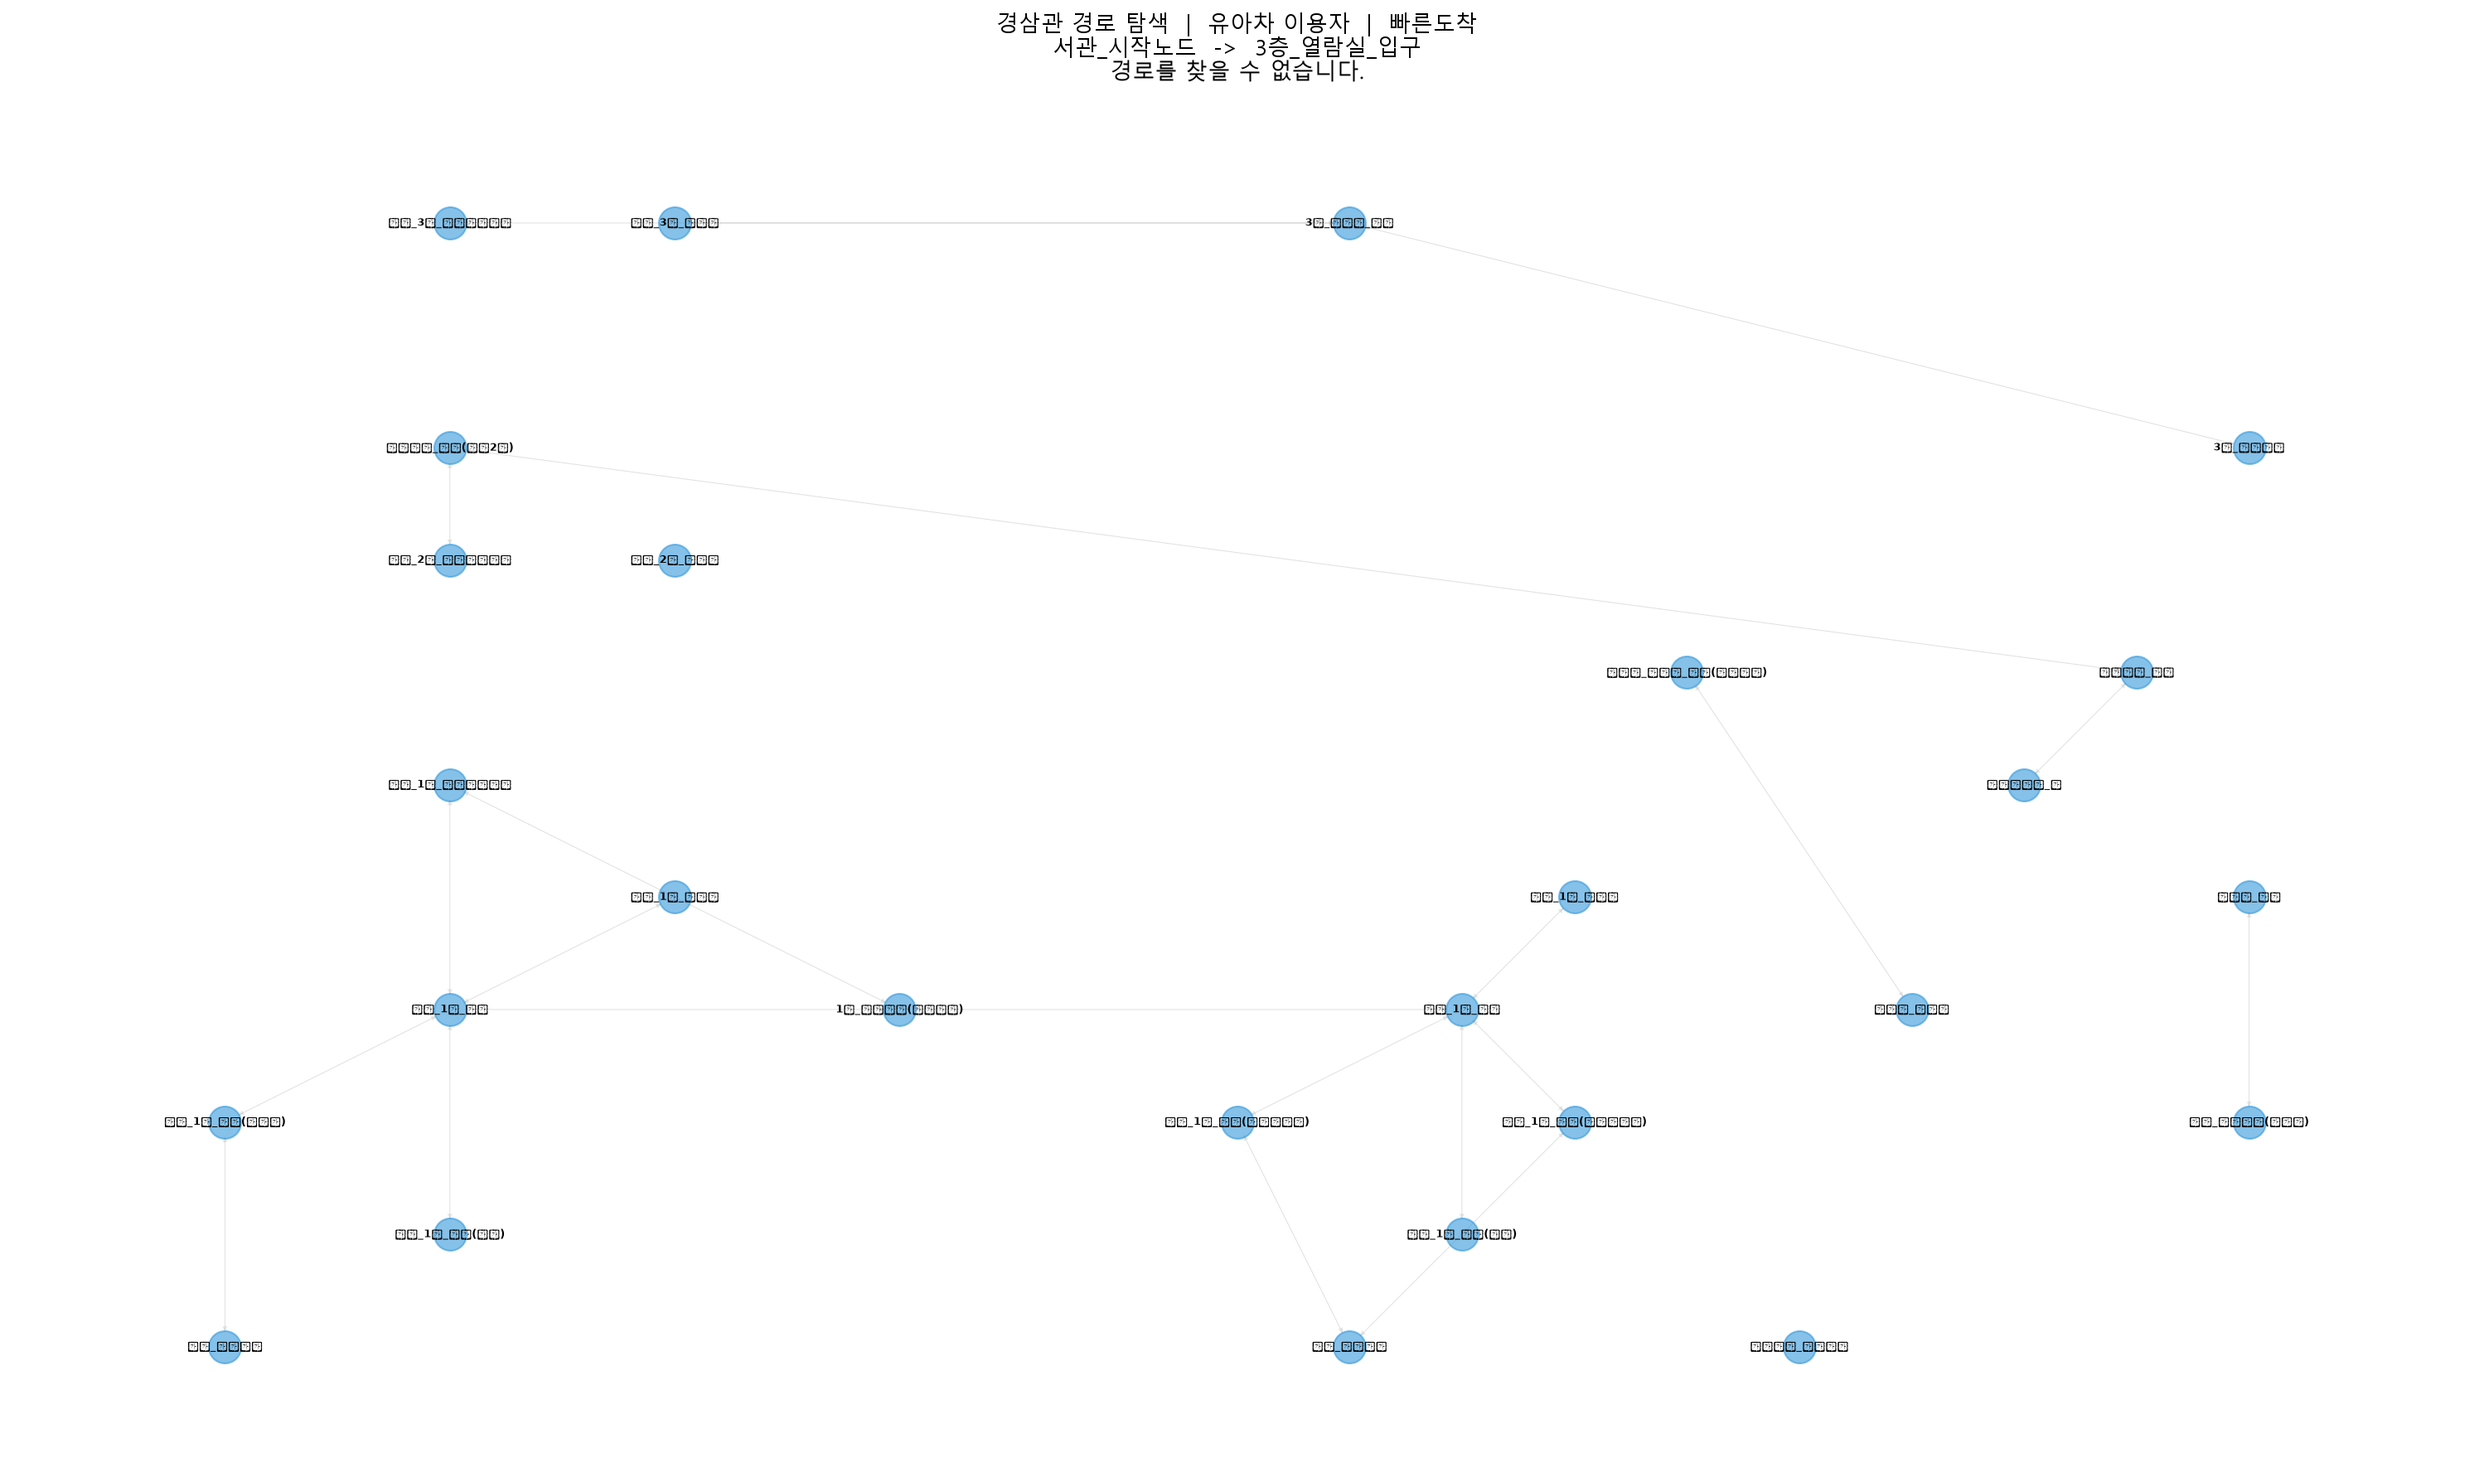
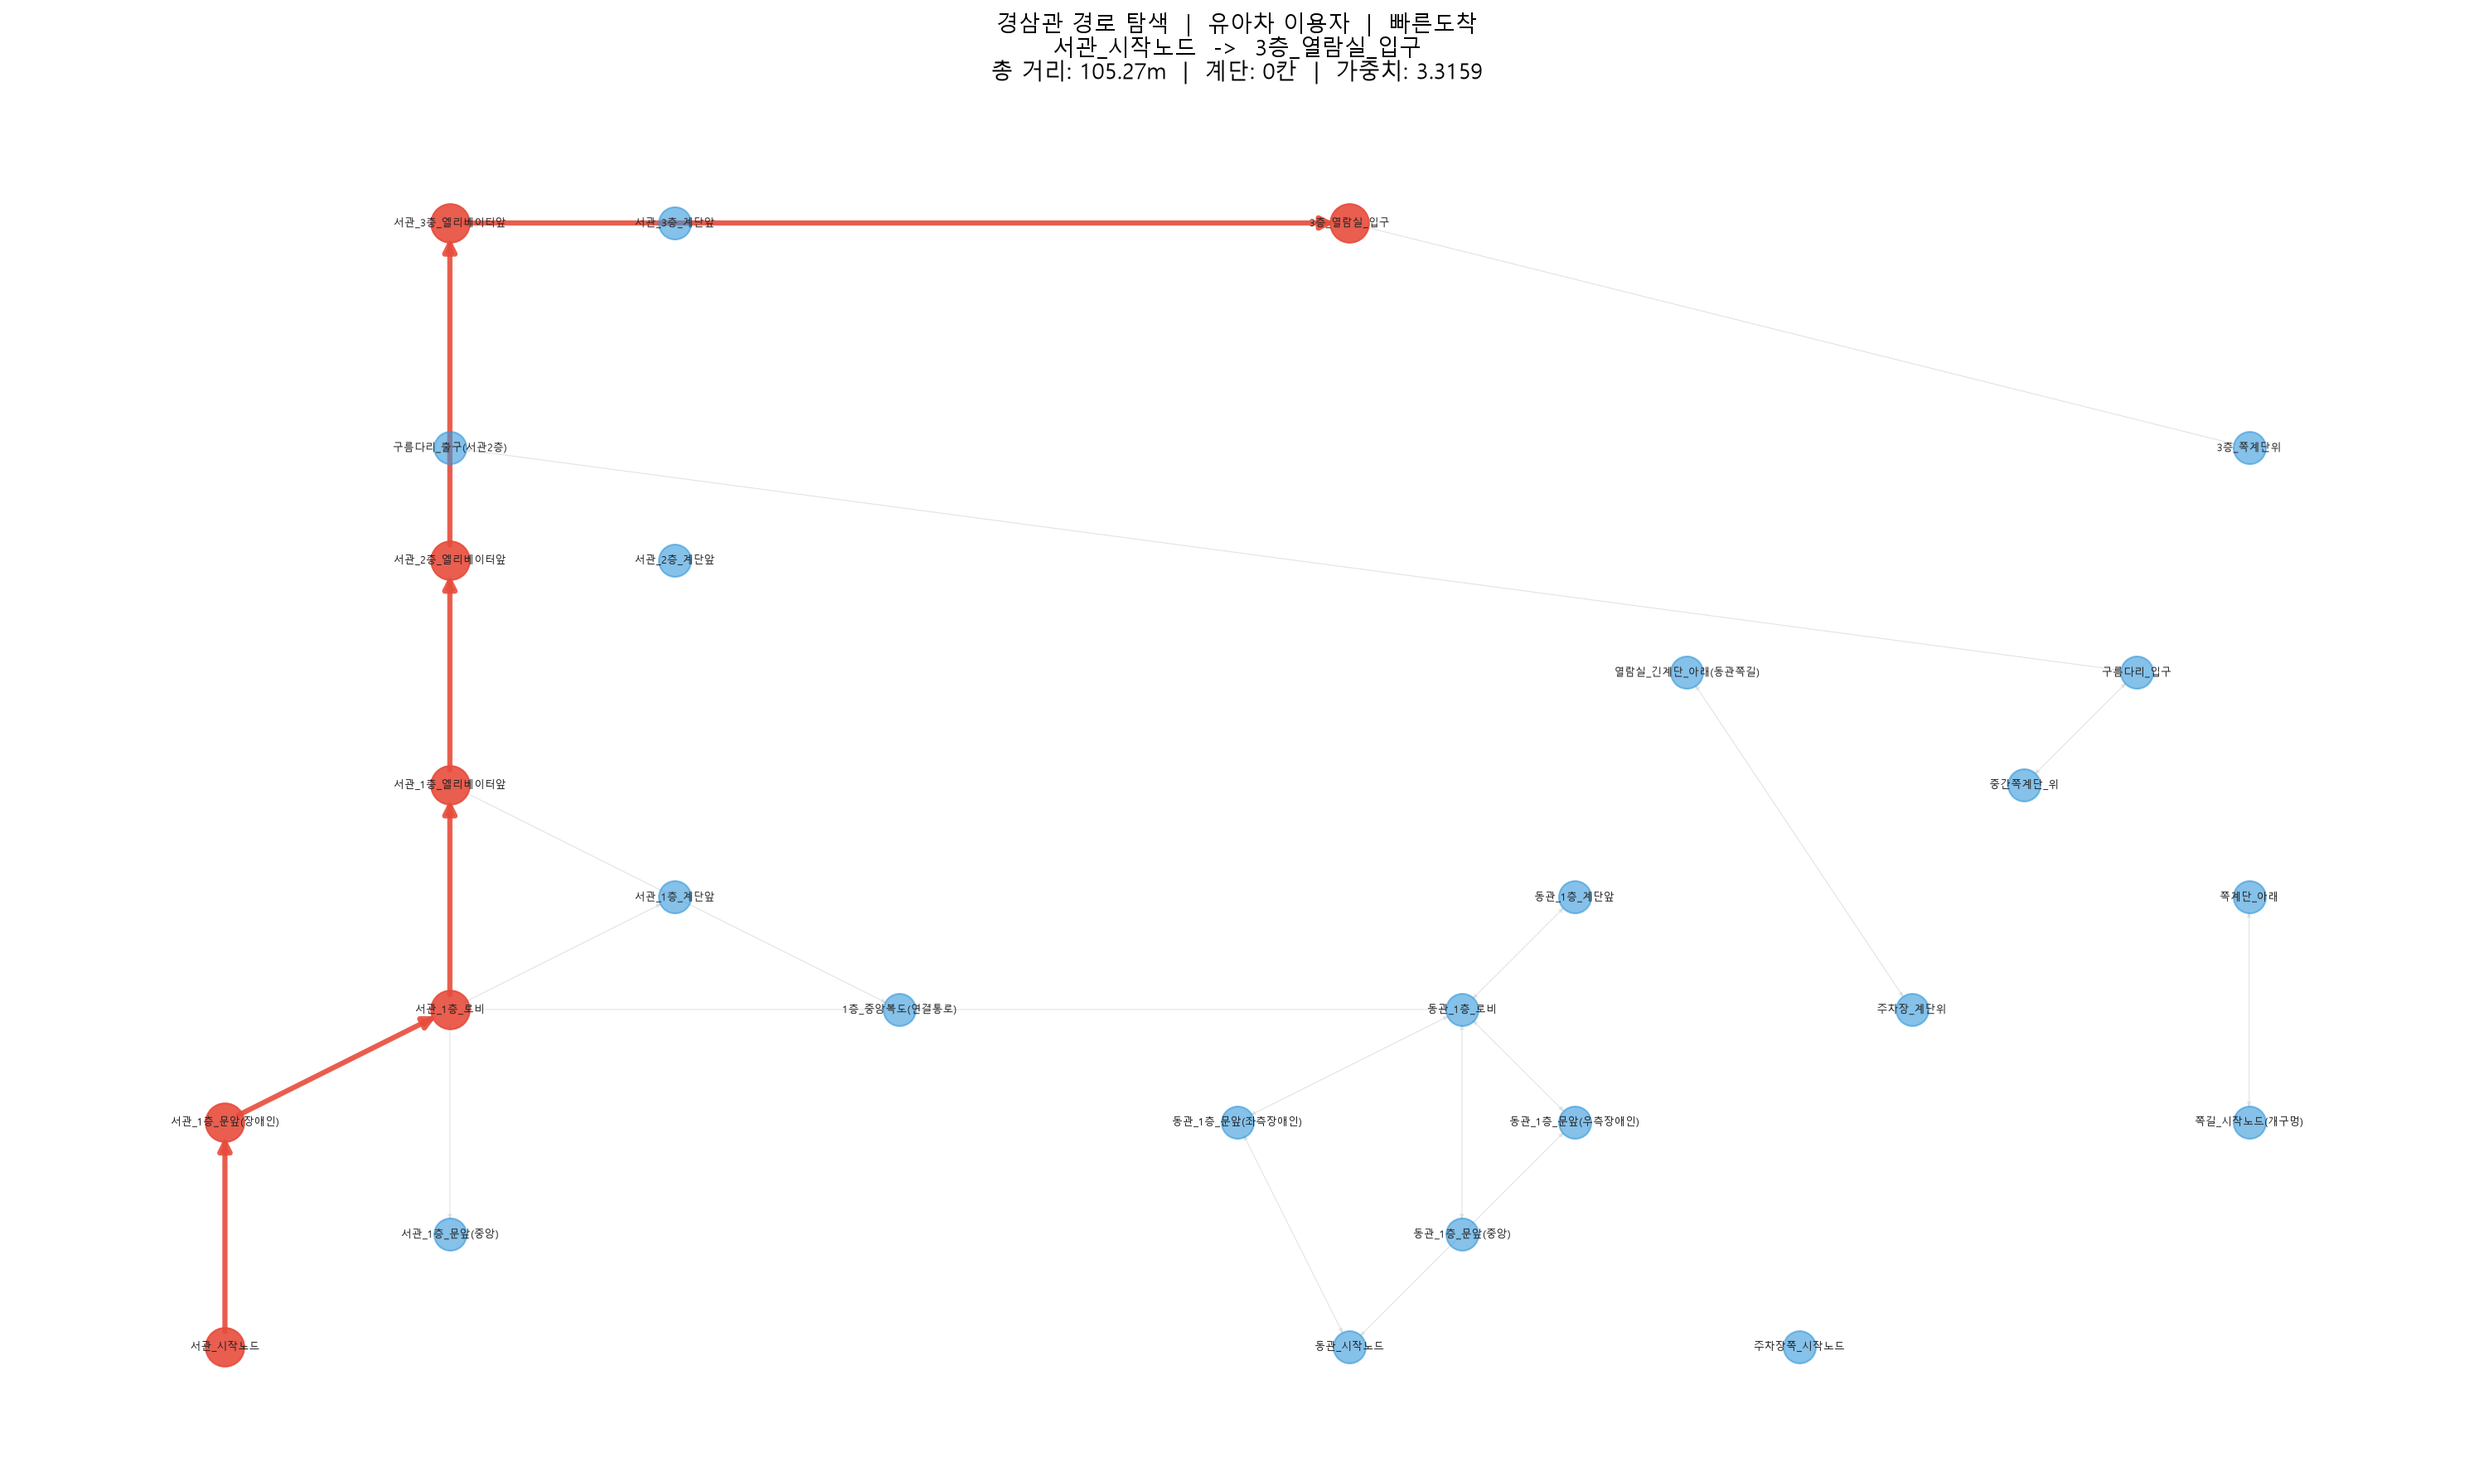
fix: 휠체어 및 유아차 계단/턱 가중치 오류 수정 및 전체 경로 시각화 완료

diff --git a/visualize.py b/visualize.py
@@ -3,16 +3,19 @@
 """
 import os
 import networkx as nx
-import matplotlib.pyplot as plt
 import matplotlib
 matplotlib.use("Agg")
+import matplotlib.pyplot as plt
+import matplotlib.font_manager as fm
 from pathfinder import (
     build_graph, find_shortest_path, get_all_nodes,
     PROFILES, MODES, PROFILE_LABELS,
 )
 
-matplotlib.rcParams["font.family"] = "Malgun Gothic"
-matplotlib.rcParams["axes.unicode_minus"] = False
+_FONT_PATH = r"C:\Windows\Fonts\malgun.ttf"
+_fp = fm.FontProperties(fname=_FONT_PATH)
+_fp_bold = fm.FontProperties(fname=_FONT_PATH, weight="bold")
+plt.rcParams["axes.unicode_minus"] = False
 
 SCRIPT_DIR = os.path.dirname(os.path.abspath(__file__))
 OUTPUT_DIR = os.path.join(SCRIPT_DIR, "output")
@@ -49,6 +52,13 @@ POS = {
 }
 
 
+def _draw_labels(G, pos, ax, font_size=6):
+    for node, (x, y) in pos.items():
+        if node in G.nodes():
+            ax.text(x, y, node, fontsize=font_size, fontproperties=_fp_bold,
+                    ha="center", va="center", color="#222")
+
+
 def visualize_path(profile, mode, start, end, save_path=None):
     os.makedirs(OUTPUT_DIR, exist_ok=True)
     G = build_graph(profile, mode)
@@ -73,9 +83,7 @@ def visualize_path(profile, mode, start, end, save_path=None):
     nx.draw_networkx_nodes(G, POS, nodelist=other, ax=ax,
                            node_color="#3498db", node_size=350, alpha=0.6)
 
-    labels = {n: n for n in G.nodes()}
-    nx.draw_networkx_labels(G, POS, labels=labels, ax=ax, font_size=6,
-                            font_weight="bold")
+    _draw_labels(G, POS, ax)
 
     label = PROFILE_LABELS.get(profile, profile)
     title_lines = [f"경삼관 경로 탐색  |  {label}  |  {mode}",
@@ -88,7 +96,7 @@ def visualize_path(profile, mode, start, end, save_path=None):
     else:
         title_lines.append("경로를 찾을 수 없습니다.")
 
-    ax.set_title("\n".join(title_lines), fontsize=13, pad=15)
+    ax.set_title("\n".join(title_lines), fontproperties=_fp, fontsize=13, pad=15)
     ax.axis("off")
     plt.tight_layout()
 
@@ -125,6 +133,8 @@ def visualize_profile_comparison(start, end):
         nx.draw_networkx_nodes(G, POS, nodelist=other, ax=ax,
                                node_color="#3498db", node_size=120, alpha=0.4)
 
+        _draw_labels(G, POS, ax, font_size=4)
+
         label = PROFILE_LABELS.get(profile, profile)
         if path:
             title = (f"{label}\n"
@@ -133,10 +143,11 @@ def visualize_profile_comparison(start, end):
                      f"W={summary['total_weight']:.2f}")
         else:
             title = f"{label}\n경로 없음"
-        ax.set_title(title, fontsize=10)
+        ax.set_title(title, fontproperties=_fp, fontsize=10)
         ax.axis("off")
 
-    plt.suptitle(f"프로필별 경로 비교 (빠른도착) | {start} -> {end}", fontsize=14)
+    plt.suptitle(f"프로필별 경로 비교 (빠른도착) | {start} -> {end}",
+                 fontproperties=_fp, fontsize=14)
     plt.tight_layout()
     save_path = os.path.join(OUTPUT_DIR, "compare_profiles_fast.png")
     plt.savefig(save_path, dpi=150, bbox_inches="tight")
@@ -169,6 +180,8 @@ def visualize_mode_comparison(profile, start, end):
         nx.draw_networkx_nodes(G, POS, nodelist=other, ax=ax,
                                node_color="#3498db", node_size=200, alpha=0.5)
 
+        _draw_labels(G, POS, ax, font_size=5)
+
         if path:
             title = (f"{mode}\n"
                      f"거리 {summary['total_distance_m']}m | "
@@ -176,11 +189,12 @@ def visualize_mode_comparison(profile, start, end):
                      f"W={summary['total_weight']:.2f}")
         else:
             title = f"{mode}\n경로 없음"
-        ax.set_title(title, fontsize=11)
+        ax.set_title(title, fontproperties=_fp, fontsize=11)
         ax.axis("off")
 
     label = PROFILE_LABELS.get(profile, profile)
-    plt.suptitle(f"모드 비교 | {label} | {start} -> {end}", fontsize=14)
+    plt.suptitle(f"모드 비교 | {label} | {start} -> {end}",
+                 fontproperties=_fp, fontsize=14)
     plt.tight_layout()
     safe = profile.replace(" ", "_")
     save_path = os.path.join(OUTPUT_DIR, f"compare_modes_{safe}.png")

diff --git a/pathfinder.py b/pathfinder.py
@@ -46,25 +46,13 @@ def clear_cache():
     _cached_edges = None
 
 
-# ─── 차단 판정 ───
+# ─── 차단 판정 (계단만 차단) ───
 def _is_blocked(edge, profile):
     stairs = edge["stairs_count"]
-    step = edge["step_height"]
-    door = edge["door_type"]
-    etype = edge["edge_type"]
-
-    if profile == "휠체어":
-        if stairs > 0:
-            return True
-        if step in ("중간", "높음") and etype != "엘리베이터":
-            return True
-        if "밀고당기는문" in door and "자동문" not in door:
-            return True
-    elif profile == "유아차":
-        if stairs > 0:
-            return True
-        if step in ("중간", "높음") and etype != "엘리베이터":
-            return True
+    if profile == "휠체어" and stairs > 0:
+        return True
+    if profile == "유아차" and stairs > 0:
+        return True
     return False
 
 
@@ -82,42 +70,42 @@ STAIR_COST_PER_STEP = {
 
 STEP_HEIGHT_COST = {
     "일반":   {"없음": 0.0,  "미니": 0.05, "중간": 0.15},
-    "휠체어":  {"없음": 0.0,  "미니": 0.0,  "중간": float("inf")},
+    "휠체어":  {"없음": 0.0,  "미니": 0.15, "중간": 0.40},
     "목발":   {"없음": 0.0,  "미니": 0.12, "중간": 0.35},
-    "유아차":  {"없음": 0.0,  "미니": 0.20, "중간": float("inf")},
+    "유아차":  {"없음": 0.0,  "미니": 0.20, "중간": 0.50},
     "짐":     {"없음": 0.0,  "미니": 0.05, "중간": 0.15},
 }
 
 DOOR_COST = {
     "일반": {
         "없음": 0.0,
-        "밀고당기는문 1번": 0.10,
-        "밀고당기는문 2번": 0.20,
-        "밀고당기는문 1번 + 자동문 1번": 0.05,
+        "밀고당기관문 1번": 0.10,
+        "밀고당기관문 2번": 0.20,
+        "밀고당기관문 1번 + 자동문 1번": 0.05,
     },
     "휠체어": {
         "없음": 0.0,
-        "밀고당기는문 1번": float("inf"),
-        "밀고당기는문 2번": float("inf"),
-        "밀고당기는문 1번 + 자동문 1번": 0.10,
+        "밀고당기관문 1번": 0.30,
+        "밀고당기관문 2번": 0.50,
+        "밀고당기관문 1번 + 자동문 1번": 0.10,
     },
     "목발": {
         "없음": 0.0,
-        "밀고당기는문 1번": 0.15,
-        "밀고당기는문 2번": 0.30,
-        "밀고당기는문 1번 + 자동문 1번": 0.08,
+        "밀고당기관문 1번": 0.15,
+        "밀고당기관문 2번": 0.30,
+        "밀고당기관문 1번 + 자동문 1번": 0.08,
     },
     "유아차": {
         "없음": 0.0,
-        "밀고당기는문 1번": 0.12,
-        "밀고당기는문 2번": 0.25,
-        "밀고당기는문 1번 + 자동문 1번": 0.06,
+        "밀고당기관문 1번": 0.12,
+        "밀고당기관문 2번": 0.25,
+        "밀고당기관문 1번 + 자동문 1번": 0.06,
     },
     "짐": {
         "없음": 0.0,
-        "밀고당기는문 1번": 0.12,
-        "밀고당기는문 2번": 0.25,
-        "밀고당기는문 1번 + 자동문 1번": 0.06,
+        "밀고당기관문 1번": 0.12,
+        "밀고당기관문 2번": 0.25,
+        "밀고당기관문 1번 + 자동문 1번": 0.06,
     },
 }
 
@@ -284,8 +272,7 @@ if __name__ == "__main__":
         print(f"  {n['node_id']} ({n['type']})")
 
     test_routes = [
-        ("서관_시작노드", "서관_3층_엘리베이터앞"),
-        ("서관_시작노드", "서관_3층_계단앞"),
+        ("서관_시작노드", "3층_열람실_입구"),
         ("동관_시작노드", "3층_열람실_입구"),
         ("주차장쪽_시작노드", "3층_열람실_입구"),
         ("쪽길_시작노드(개구멍)", "3층_열람실_입구"),
